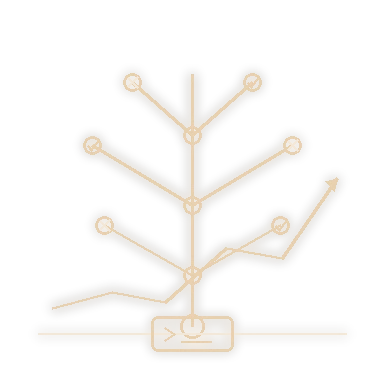
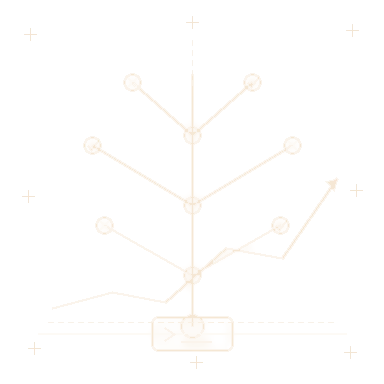
Bring the Autoresearch card art and category in line with the log
A consistency pass over entry 26 against the other twenty-five. The
content already followed the house conventions after its persona
review, and the generator renders its needs, cost and honest Reviewed
but Not tested status the same way as every other entry, so the copy
stands as it was.

Two things did not match. The card illustration carried a baked-in
dark drop shadow that read as fog on the dark theme and a halo on
linen, and its strokes ran about twice the house weight with none of
the blueprint furniture the other monolines share. The raster is
rebuilt in place: shadow stripped, strokes thinned and rebalanced to
the set's alpha range, registration crosses and dashed construction
guides added, and the light variant regenerated through lighten.py.

The category moves from Connections to Workflow. Every Connections
entry plugs an assistant into something real, a browser, a database,
a documentation index. Autoresearch is an autonomous experiment loop
you point an agent at, which puts it beside Ralph Loop and Task
Observer where readers browsing by category will actually look for it.

diff --git a/index.html b/index.html
@@ -888,9 +888,9 @@ try{if(localStorage.getItem("theme")==="dark")document.documentElement.setAttrib
             <p class="card-tag">Reads a website or a project and writes down its colours, fonts, spacing and reusable pieces in a form Claude Code picks up on its own, so what it builds matches instead of drifting.</p>
             <span class="card-open">Read entry</span>
           </a>
-          <a class="card" href="tools/autoresearch.html" data-category="Connections">
+          <a class="card" href="tools/autoresearch.html" data-category="Workflow">
             <img class="card-art" src="assets/cards/light/autoresearch.webp" alt="" width="512" height="512" loading="lazy" decoding="async">
-            <span class="card-top"><span class="card-cat m">Connections</span></span>
+            <span class="card-top"><span class="card-cat m">Workflow</span></span>
             <h2 class="card-name">Autoresearch</h2>
             <p class="card-tag">Give an AI agent one small language model and one score to improve. It edits the training code, runs five-minute experiments, keeps what works, and records the rest while you sleep.</p>
             <span class="card-open">Read entry</span>

diff --git a/tools/autoresearch.html b/tools/autoresearch.html
@@ -131,8 +131,8 @@
         {
           "@type": "ListItem",
           "position": 2,
-          "name": "Connections",
-          "item": "https://xavierairesources.netlify.app/#connections"
+          "name": "Workflow",
+          "item": "https://xavierairesources.netlify.app/#workflow"
         },
         {
           "@type": "ListItem",
@@ -217,7 +217,7 @@ try{if(localStorage.getItem("theme")==="dark")document.documentElement.setAttrib
         </div>
 
         <aside class="meta">
-          <div><h2>Category</h2><p class="meta-cat">Connections</p></div>
+          <div><h2>Category</h2><p class="meta-cat">Workflow</p></div>
           <div><h2>Made by</h2><p>karpathy</p></div>
           <div><h2>You'll need</h2><p>The uv helper, Python 3.10 or newer, an NVIDIA graphics card</p></div>
           <div><h2>Cost</h2><p>Free (the coding agent you point at it has its own plan)</p></div>

diff --git a/tools.js b/tools.js
@@ -579,7 +579,7 @@ const TOOLS = [
   {
     num: "26",
     name: "Autoresearch",
-    category: "Connections",
+    category: "Workflow",
     tagline: "Lets an AI agent run model experiments overnight",
     blurb: "Give an AI agent one small language model and one score to improve. It edits the training code, runs five-minute experiments, keeps what works, and records the rest while you sleep.",
     repo: "https://github.com/karpathy/autoresearch",
